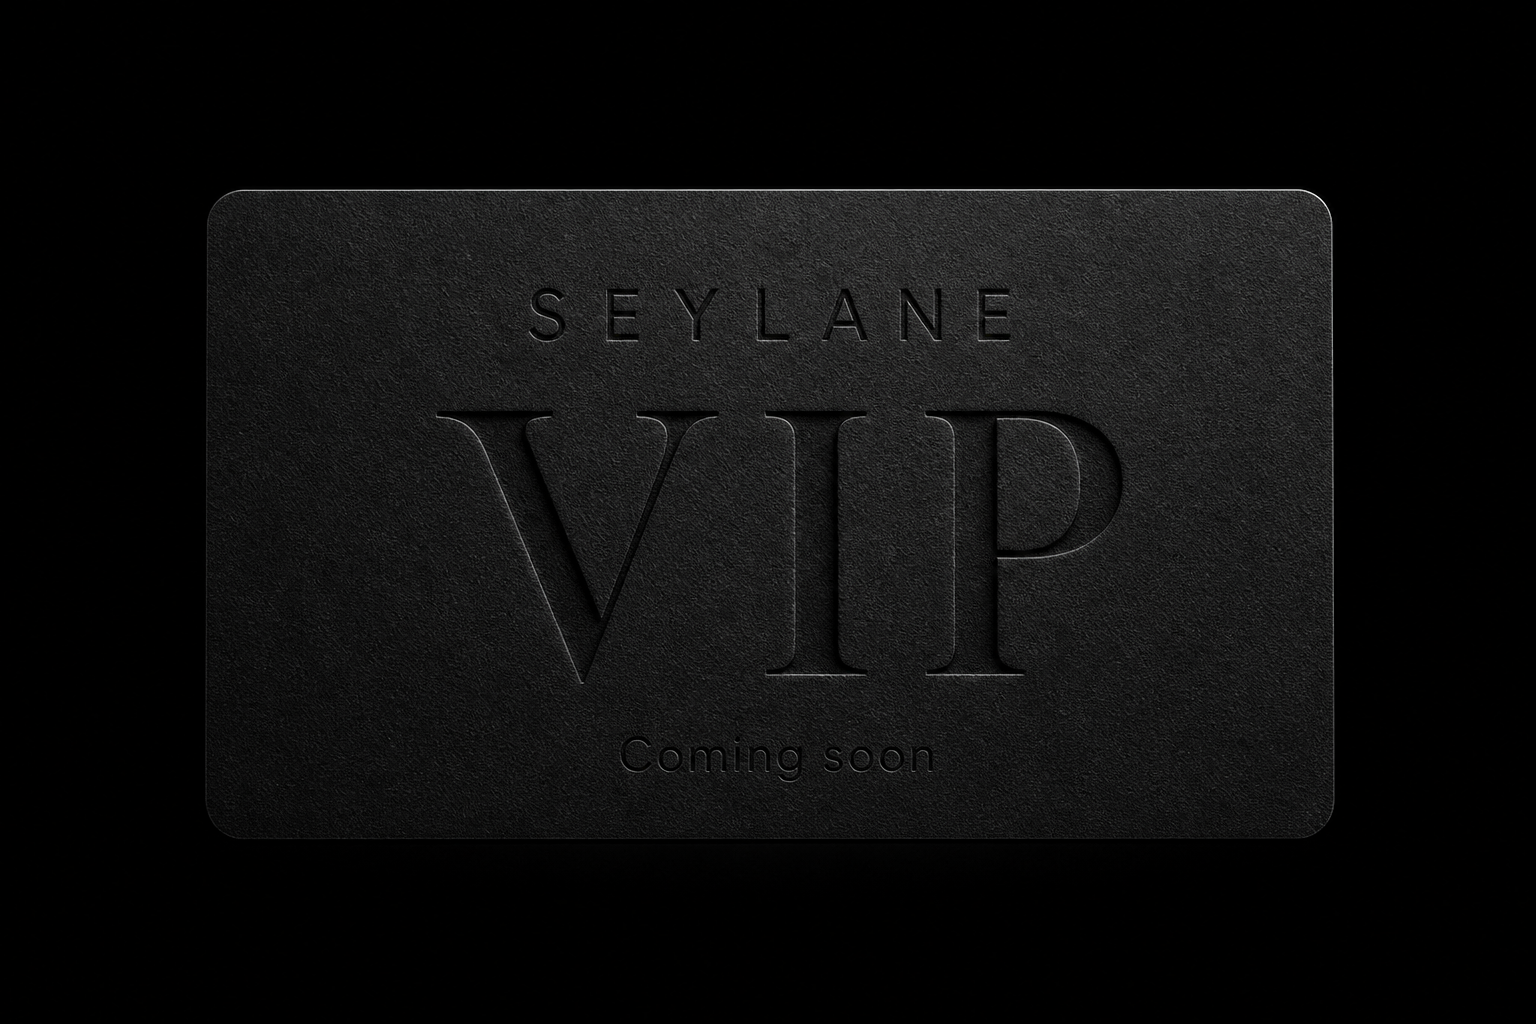
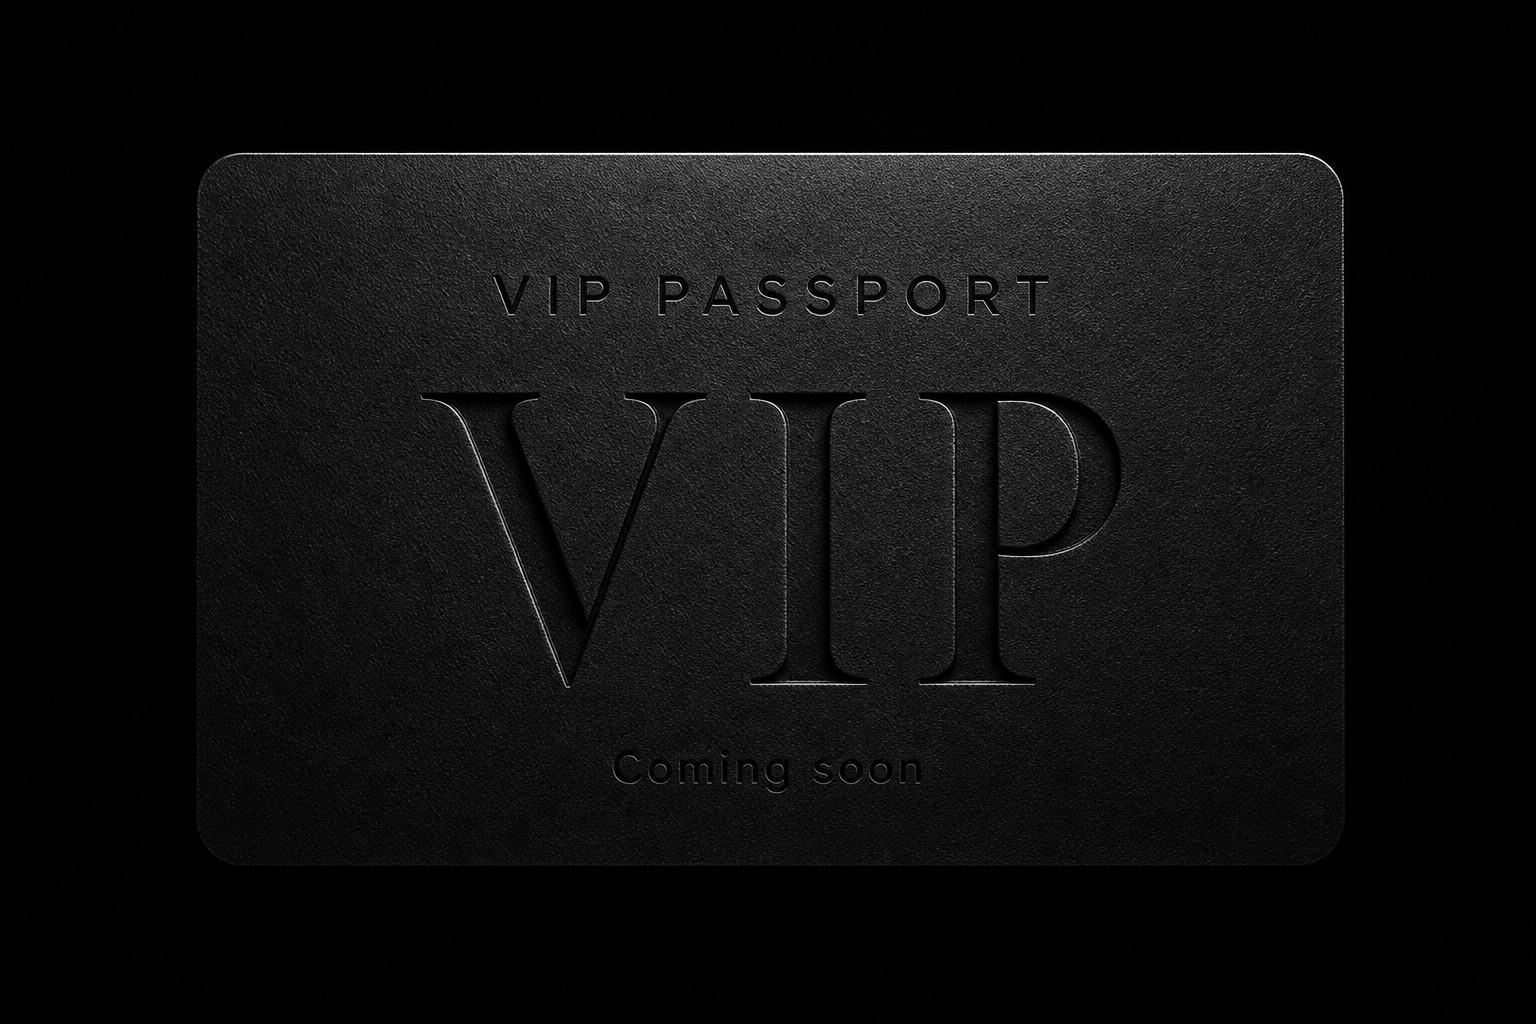
docs: product-only English, no client names
Rewrite README, OG, and notes as VIP Passport copy. Drop brand
names from docs and the header card. No app or Railway changes.

diff --git a/README.md b/README.md
@@ -1,18 +1,16 @@
 <p align="center">
-  <img src="docs/og.png" alt="Seylane VIP — Coming soon" width="100%" />
+  <img src="docs/og.png" alt="VIP Passport — Coming soon" width="100%" />
 </p>
 
-<h1 align="center">Seylane VIP</h1>
+<h1 align="center">VIP Passport</h1>
 
 <p align="center">Telegram Mini App · Vite + React · RTL</p>
 
 <p align="center">
-  <em>VIP Passport for Seylaneh Sabz — Telegram Mini App. Loyalty club: stamps, missions, purchase and display proofs, referrals.</em>
+  <em>VIP Passport — Telegram Mini App. Loyalty club: stamps, missions, purchase and display proofs, referrals.</em>
 </p>
 
 <p align="center">
-  <code>seylane</code>
-  <code>seylaneh-sabz</code>
   <code>vip-passport</code>
   <code>telegram-mini-app</code>
   <code>react</code>
@@ -32,7 +30,7 @@
 
 ---
 
-The JS client for Seylaneh Sabz Production & Trade’s loyalty club. Members open it inside Telegram. The shell is a navy glass passport: points, stamps, missions, invoice proofs, shelf displays, VIP referrals.
+The JS client for a loyalty club. Members open it inside Telegram. The shell is a navy glass passport: points, stamps, missions, invoice proofs, shelf displays, VIP referrals.
 
 This repository is the VIP stack. The site itself is `passport/`.
 
@@ -75,7 +73,7 @@ Bottom nav: Dashboard · Missions · Stamps · Profile.
 | `POST` | `/api/purchase` · `/api/display` · `/api/referral` · `/api/upload` |
 | `GET` / `POST` | `/api/admin/…` |
 
-Base URL is `http://localhost:10000/api`, or `https://seylane-vip.onrender.com/api` when the page host contains `onrender.com`.
+Base URL is `http://localhost:10000/api`, or the Render `/api` origin when the page host contains `onrender.com`.
 
 ## Repo
 
@@ -84,7 +82,7 @@ Base URL is `http://localhost:10000/api`, or `https://seylane-vip.onrender.com/a
 | `passport/` | VIP client — this site |
 | `backend/` | Express + Prisma (SQLite). `GET /health` |
 | `reverse-proxy/` | Nginx for the Docker image |
-| `seylane-dashboard/` | Separate Next.js control center (explainer / autodm / iceball). Not the passport UI. |
+| dashboard package | Separate Next.js control center (explainer / autodm / iceball). Not the passport UI. |
 
 ## Run
 
@@ -105,7 +103,7 @@ npm run dev
 The seed creates the demo VIP (`telegramId = 999999999`). Use the demo login button on the login book.
 
 ```bash
-docker build -t seylane-vip .
+docker build .
 docker compose up
 ```
 

diff --git a/passport/README.md b/passport/README.md
@@ -1,6 +1,6 @@
-# Seylane VIP Passport
+# VIP Passport
 
-Vite + React client for the Seylaneh Sabz loyalty club. Telegram Mini App.
+Vite + React client for the loyalty club. Telegram Mini App.
 
 See the root [README](../README.md) for the real routes, auth, and API surface.
 

diff --git a/backend/README.md b/backend/README.md
@@ -1,11 +1,11 @@
-# Seylane VIP Backend
+# VIP Backend
 
 Express + Prisma (SQLite) + CommonJS.
 
 ## Scripts
 
 ```bash
-cd /Users/macbookair/Desktop/seylane-vip/backend
+cd backend
 npm install
 npx prisma migrate dev
 npx prisma db seed
